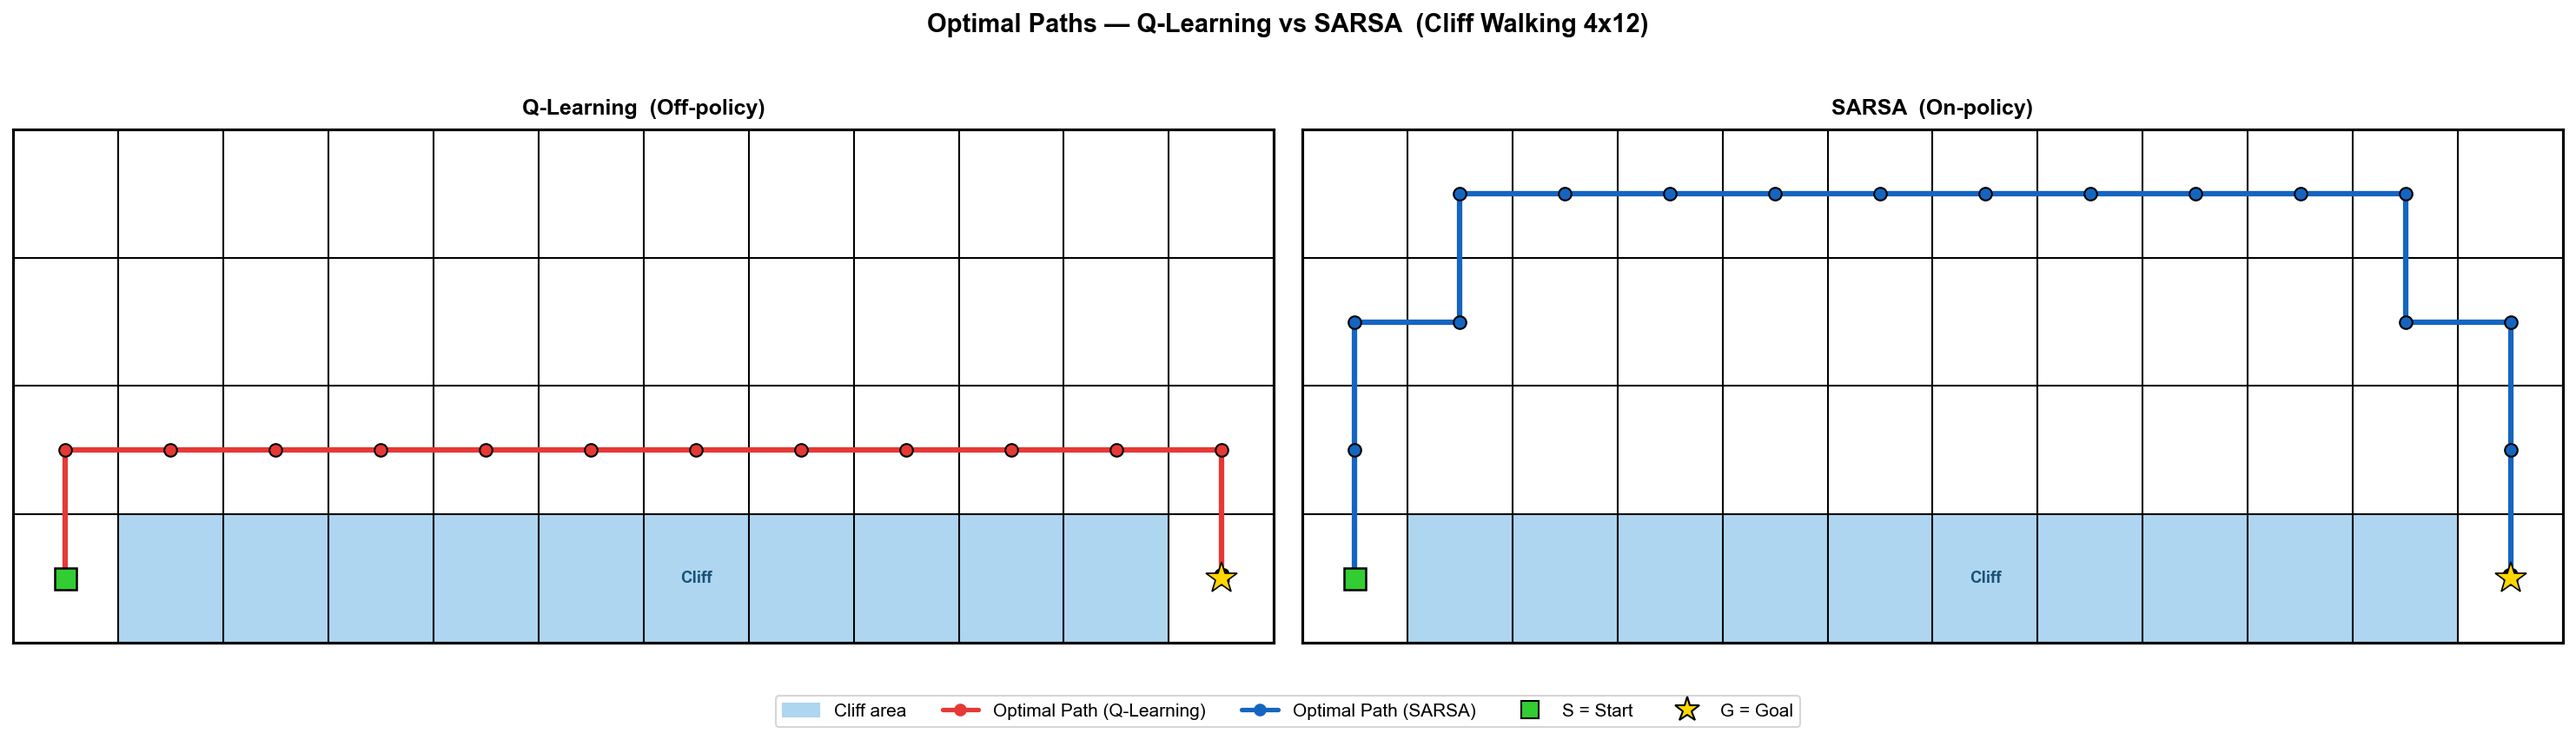
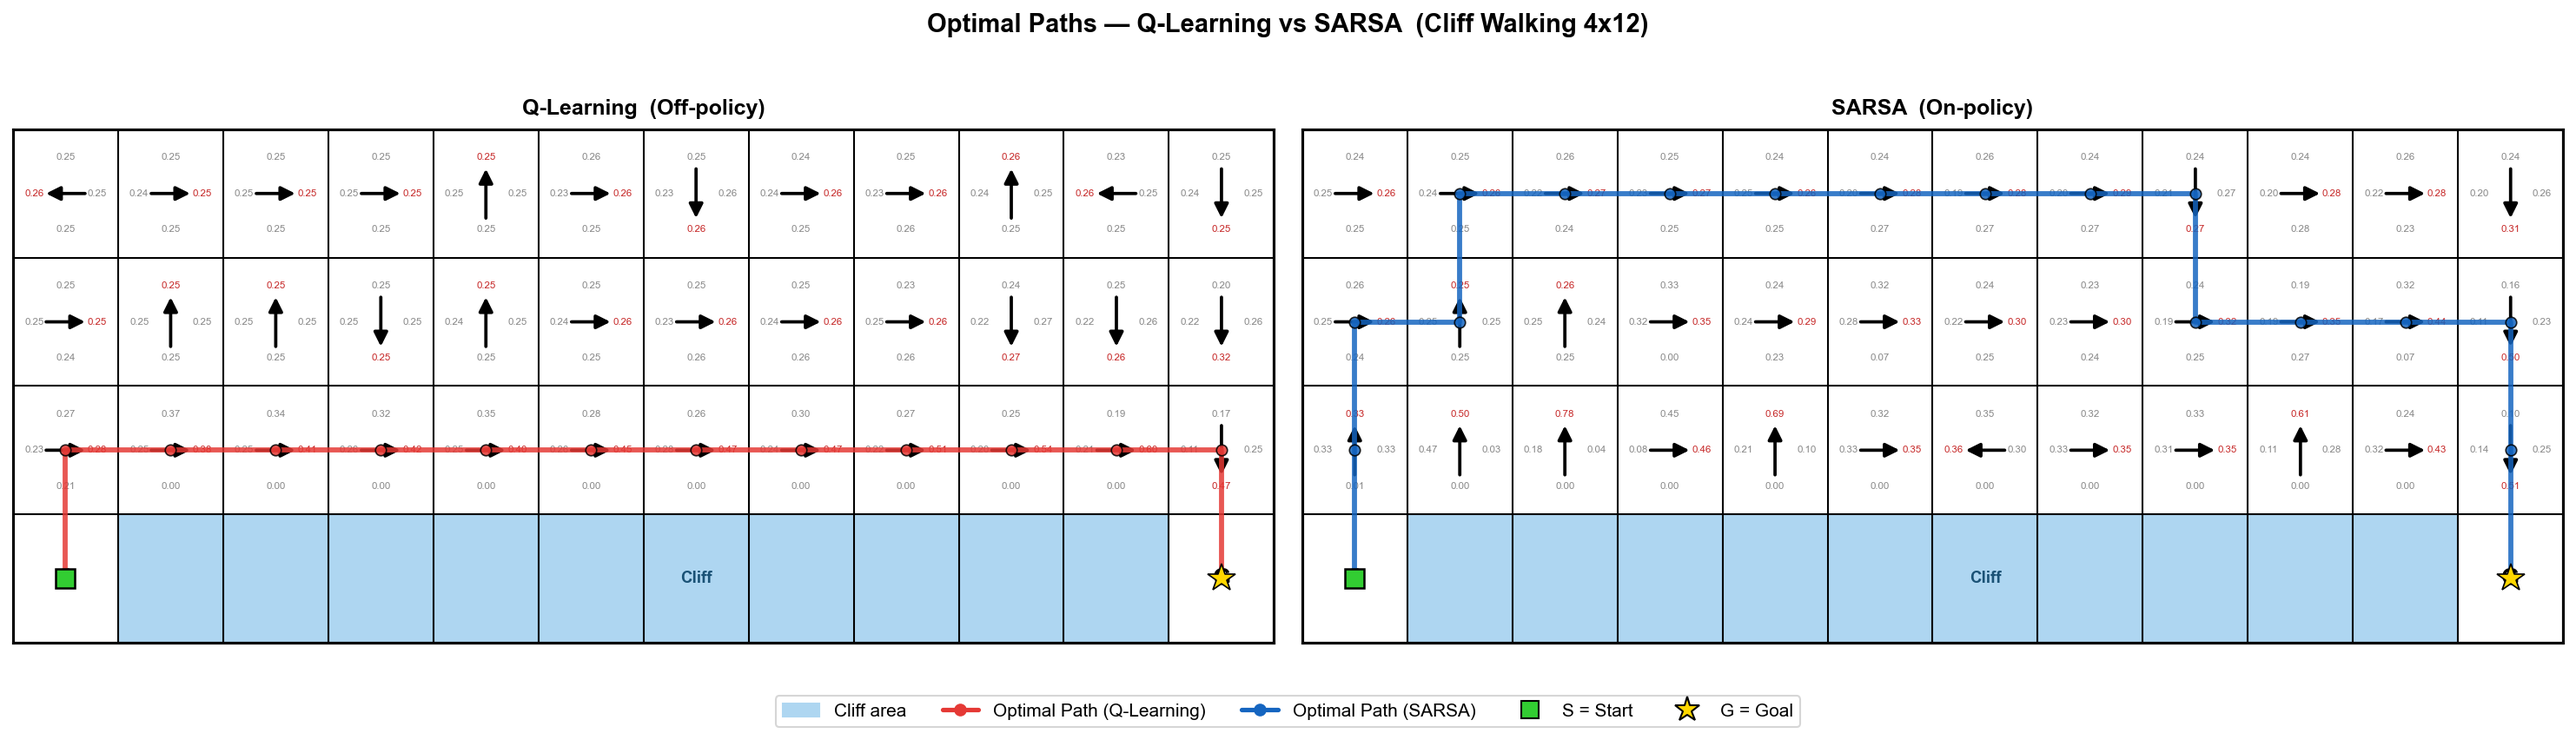
feat: policy map adds small path overlay, path map adds per-cell softmax probability labels + arrows

diff --git a/main.py b/main.py
@@ -318,8 +318,8 @@ def plot_policy_style(q_agent, s_agent, env, save_path):
 ARROW_CHARS = {0: '^', 1: 'v', 2: '<', 3: '>'}   # ASCII fallback
 
 
-def _draw_policy_grid(ax, agent, env, title):
-    """Draw one policy grid panel on the given axes (white background, bold arrows)."""
+def _draw_policy_grid(ax, agent, env, title, path_color):
+    """Draw one policy grid panel: white bg, bold arrows, small path overlay."""
     rows, cols = env.get_grid_shape()
     ax.set_facecolor('white')
     ax.set_xlim(0, cols)
@@ -328,24 +328,22 @@ def _draw_policy_grid(ax, agent, env, title):
     # ── Fill special cells first ──
     for r in range(rows):
         for c in range(cols):
-            pos = (r, c)
-            if pos in env.cliff:
+            if (r, c) in env.cliff:
                 ax.add_patch(plt.Rectangle((c, r), 1, 1,
-                             color='#AED6F1', zorder=1))   # light blue cliff
+                             color='#AED6F1', zorder=1))
 
-    # ── Grid lines (drawn after fill so they sit on top) ──
+    # ── Grid lines ──
     for x in range(cols + 1):
         ax.axvline(x, color='black', linewidth=1.2, zorder=2)
     for y in range(rows + 1):
         ax.axhline(y, color='black', linewidth=1.2, zorder=2)
 
-    # ── Cell content ──
+    # ── Cell content: big policy arrows ──
     for r in range(rows):
         for c in range(cols):
             pos = (r, c)
             cx, cy = c + 0.5, r + 0.5
             if pos in env.cliff:
-                # Label only at the center column of cliff
                 if c == (env.cols // 2):
                     ax.text(cx, cy, 'Cliff', ha='center', va='center',
                             fontsize=9, color='#1A5276', fontweight='bold', zorder=3)
@@ -358,20 +356,29 @@ def _draw_policy_grid(ax, agent, env, title):
             else:
                 state = r * cols + c
                 best_a = agent.get_best_action(state)
-                # Use matplotlib arrow annotation centered in cell
                 u = ACTION_DC[best_a]
-                v = -ACTION_DR[best_a]   # flip: imshow row-down = positive y-down
+                v = -ACTION_DR[best_a]
                 ax.annotate("",
-                    xy     =(cx + u * 0.30, cy - v * 0.30),
-                    xytext =(cx - u * 0.30, cy + v * 0.30),
-                    arrowprops=dict(
-                        arrowstyle="-|>",
-                        color='black',
-                        lw=2.2,
-                        mutation_scale=20,
-                    ),
+                    xy    =(cx + u * 0.30, cy - v * 0.30),
+                    xytext=(cx - u * 0.30, cy + v * 0.30),
+                    arrowprops=dict(arrowstyle="-|>", color='black',
+                                   lw=2.2, mutation_scale=20),
                     zorder=4
                 )
+
+    # ── Optimal path overlay (smaller, colored) ──
+    opt_path = get_optimal_path(agent, env)
+    if opt_path is not None:
+        px = [p[1] + 0.5 for p in opt_path]
+        py = [p[0] + 0.5 for p in opt_path]
+        ax.plot(px, py, color=path_color, linewidth=2.0, zorder=6,
+                marker='o', markersize=4,
+                markerfacecolor=path_color, markeredgecolor='white',
+                markeredgewidth=0.6, alpha=0.85)
+        ax.plot(px[0],  py[0],  's', color='limegreen',
+                markersize=8, zorder=7, markeredgecolor='black', markeredgewidth=1.0)
+        ax.plot(px[-1], py[-1], '*', color='gold',
+                markersize=12, zorder=7, markeredgecolor='black', markeredgewidth=0.6)
 
     # ── Axes cosmetics ──
     ax.set_xticks([])
@@ -386,8 +393,26 @@ def plot_policy_arrows(q_agent, s_agent, env, save_path):
     """Save style_policy.png: 1x2 subplots of policy direction maps."""
     fig, axes = plt.subplots(1, 2, figsize=(20, 5))
     fig.patch.set_facecolor('white')
-    _draw_policy_grid(axes[0], q_agent, env, "Q-Learning Policy  (Off-policy)")
-    _draw_policy_grid(axes[1], s_agent, env, "SARSA Policy  (On-policy)")
+    _draw_policy_grid(axes[0], q_agent, env,
+                      "Q-Learning Policy  (Off-policy)", path_color='#E53935')
+    _draw_policy_grid(axes[1], s_agent, env,
+                      "SARSA Policy  (On-policy)",       path_color='#1565C0')
+
+    # ── Legend for the path overlay ──
+    legend_elements = [
+        plt.Line2D([0], [0], color='#E53935', lw=2, marker='o', markersize=5,
+                   label='Optimal Path (Q-Learning)'),
+        plt.Line2D([0], [0], color='#1565C0', lw=2, marker='o', markersize=5,
+                   label='Optimal Path (SARSA)'),
+        plt.Line2D([0], [0], marker='s', color='w', markerfacecolor='limegreen',
+                   markersize=8, markeredgecolor='black', label='S = Start'),
+        plt.Line2D([0], [0], marker='*', color='w', markerfacecolor='gold',
+                   markersize=11, markeredgecolor='black', label='G = Goal'),
+    ]
+    fig.legend(handles=legend_elements, loc='lower center', ncol=4,
+               facecolor='white', edgecolor='#ccc', labelcolor='black', fontsize=10,
+               bbox_to_anchor=(0.5, -0.08))
+
     fig.suptitle("Learned Policy Maps — Q-Learning vs SARSA",
                  fontsize=14, fontweight='bold', color='black', y=1.01)
     plt.tight_layout()
@@ -402,7 +427,8 @@ def plot_policy_arrows(q_agent, s_agent, env, save_path):
 # ─────────────────────────────────────────────
 
 def _draw_path_grid(ax, agent, env, title, path_color):
-    """Draw one path-grid panel: plain white grid, cliff shaded, path overlaid."""
+    """Draw one path-grid panel: plain white grid, cliff shaded,
+       softmax probability labels per cell, path overlaid."""
     rows, cols = env.get_grid_shape()
     ax.set_facecolor('white')
     ax.set_xlim(0, cols)
@@ -421,34 +447,73 @@ def _draw_path_grid(ax, agent, env, title, path_color):
     for y in range(rows + 1):
         ax.axhline(y, color='black', linewidth=1.0, zorder=2)
 
-    # ── Cell labels: S, G, Cliff ──
+    # ── Per-cell: softmax probability labels + best-action arrow ──
+    # Softmax of Q-values gives relative probability of each direction
+    # Label positions (dx, dy from cell center): up, down, left, right
+    PROB_OFFSET = {
+        0: ( 0.0, -0.28),   # up
+        1: ( 0.0,  0.28),   # down
+        2: (-0.30,  0.0),   # left
+        3: ( 0.30,  0.0),   # right
+    }
+
     for r in range(rows):
         for c in range(cols):
             pos = (r, c)
             cx, cy = c + 0.5, r + 0.5
+
             if pos == env.start:
                 ax.text(cx, cy, 'S', ha='center', va='center',
                         fontsize=13, fontweight='bold', color='black', zorder=5)
-            elif pos == env.goal:
+                continue
+            if pos == env.goal:
                 ax.text(cx, cy, 'G', ha='center', va='center',
                         fontsize=13, fontweight='bold', color='black', zorder=5)
-            elif pos in env.cliff and c == (env.cols // 2):
-                ax.text(cx, cy, 'Cliff', ha='center', va='center',
-                        fontsize=9, color='#1A5276', fontweight='bold', zorder=3)
+                continue
+            if pos in env.cliff:
+                if c == (env.cols // 2):
+                    ax.text(cx, cy, 'Cliff', ha='center', va='center',
+                            fontsize=9, color='#1A5276', fontweight='bold', zorder=3)
+                continue
 
-    # ── Optimal path ──
+            state = r * cols + c
+            q_row  = agent.Q[state].cpu().float()
+            probs  = torch.softmax(q_row, dim=0).numpy()   # shape (4,)
+            best_a = int(q_row.argmax().item())
+
+            # ── Probability labels (tiny text at 4 compass positions) ──
+            prob_color = ['#888888', '#888888', '#888888', '#888888']
+            prob_color[best_a] = '#C62828'   # highlight greedy action probability in red
+            for a in range(4):
+                dx, dy = PROB_OFFSET[a]
+                ax.text(cx + dx, cy + dy, f'{probs[a]:.2f}',
+                        ha='center', va='center', fontsize=5.5,
+                        color=prob_color[a], zorder=4)
+
+            # ── Best-action arrow (prominent, black) ──
+            u = ACTION_DC[best_a]
+            v = -ACTION_DR[best_a]
+            ax.annotate("",
+                xy    =(cx + u * 0.22, cy - v * 0.22),
+                xytext=(cx - u * 0.22, cy + v * 0.22),
+                arrowprops=dict(arrowstyle="-|>", color='black',
+                                lw=1.8, mutation_scale=16),
+                zorder=5
+            )
+
+    # ── Optimal path overlay ──
     opt_path = get_optimal_path(agent, env)
     if opt_path is not None:
         px = [p[1] + 0.5 for p in opt_path]
         py = [p[0] + 0.5 for p in opt_path]
-        ax.plot(px, py, color=path_color, linewidth=3.0, zorder=6,
-                marker='o', markersize=7,
-                markerfacecolor=path_color, markeredgecolor='black', markeredgewidth=1)
-        # Start square & Goal star
+        ax.plot(px, py, color=path_color, linewidth=2.8, zorder=6,
+                marker='o', markersize=6,
+                markerfacecolor=path_color, markeredgecolor='black',
+                markeredgewidth=0.8, alpha=0.85)
         ax.plot(px[0],  py[0],  's', color='limegreen',
-                markersize=12, zorder=7, markeredgecolor='black', markeredgewidth=1.2)
+                markersize=11, zorder=7, markeredgecolor='black', markeredgewidth=1.2)
         ax.plot(px[-1], py[-1], '*', color='gold',
-                markersize=18, zorder=7, markeredgecolor='black', markeredgewidth=0.8)
+                markersize=16, zorder=7, markeredgecolor='black', markeredgewidth=0.8)
         print(f"    [{title}] path: {len(opt_path)} steps")
     else:
         ax.text(cols / 2, rows / 2, 'No path found', ha='center', va='center',
